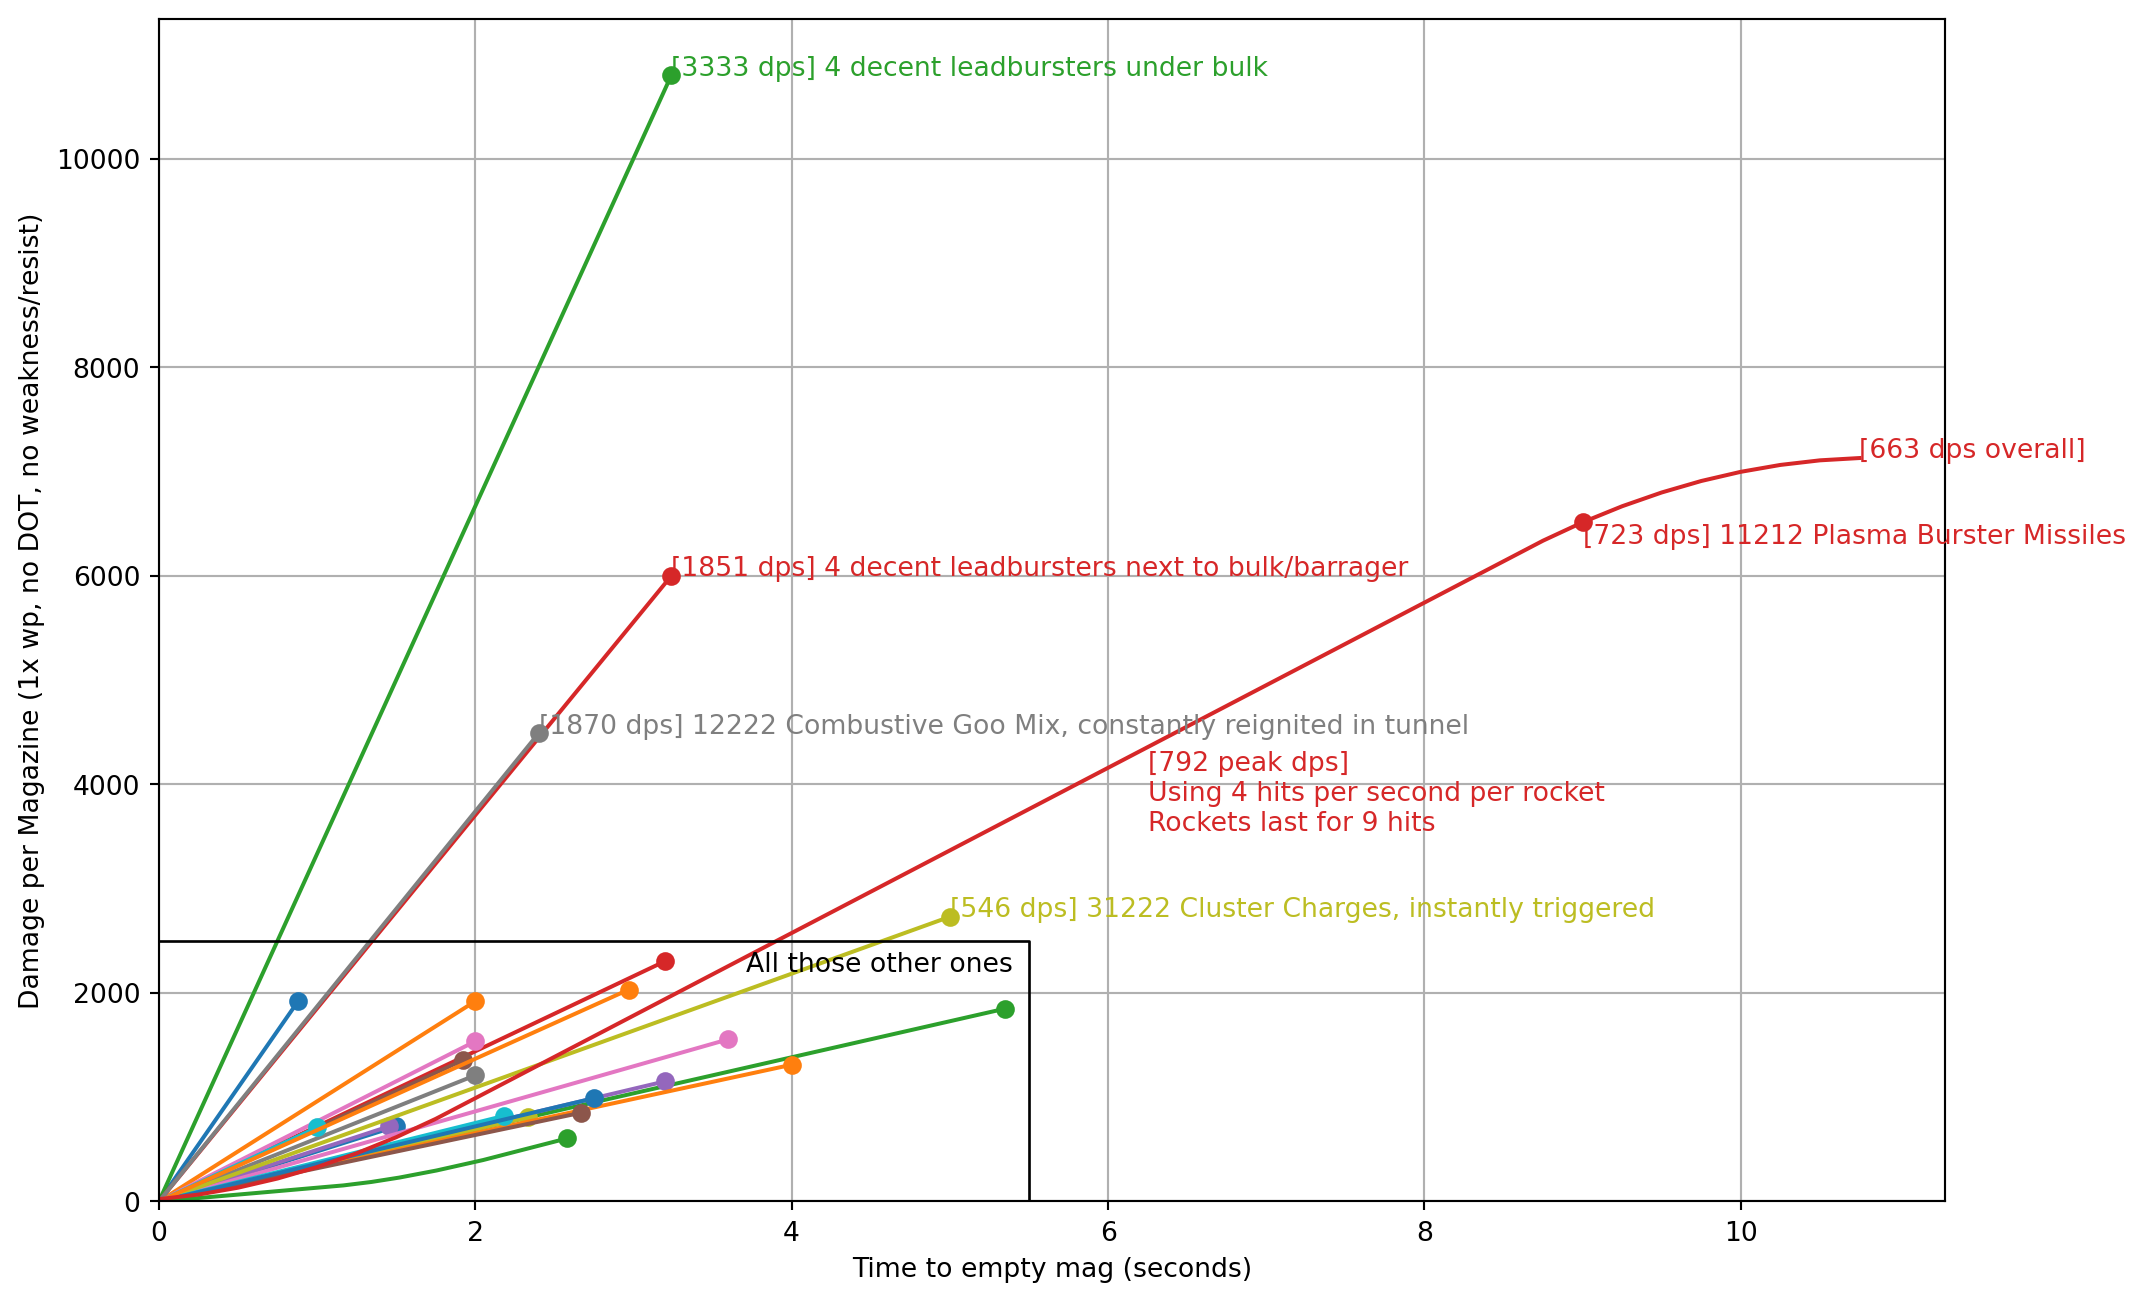
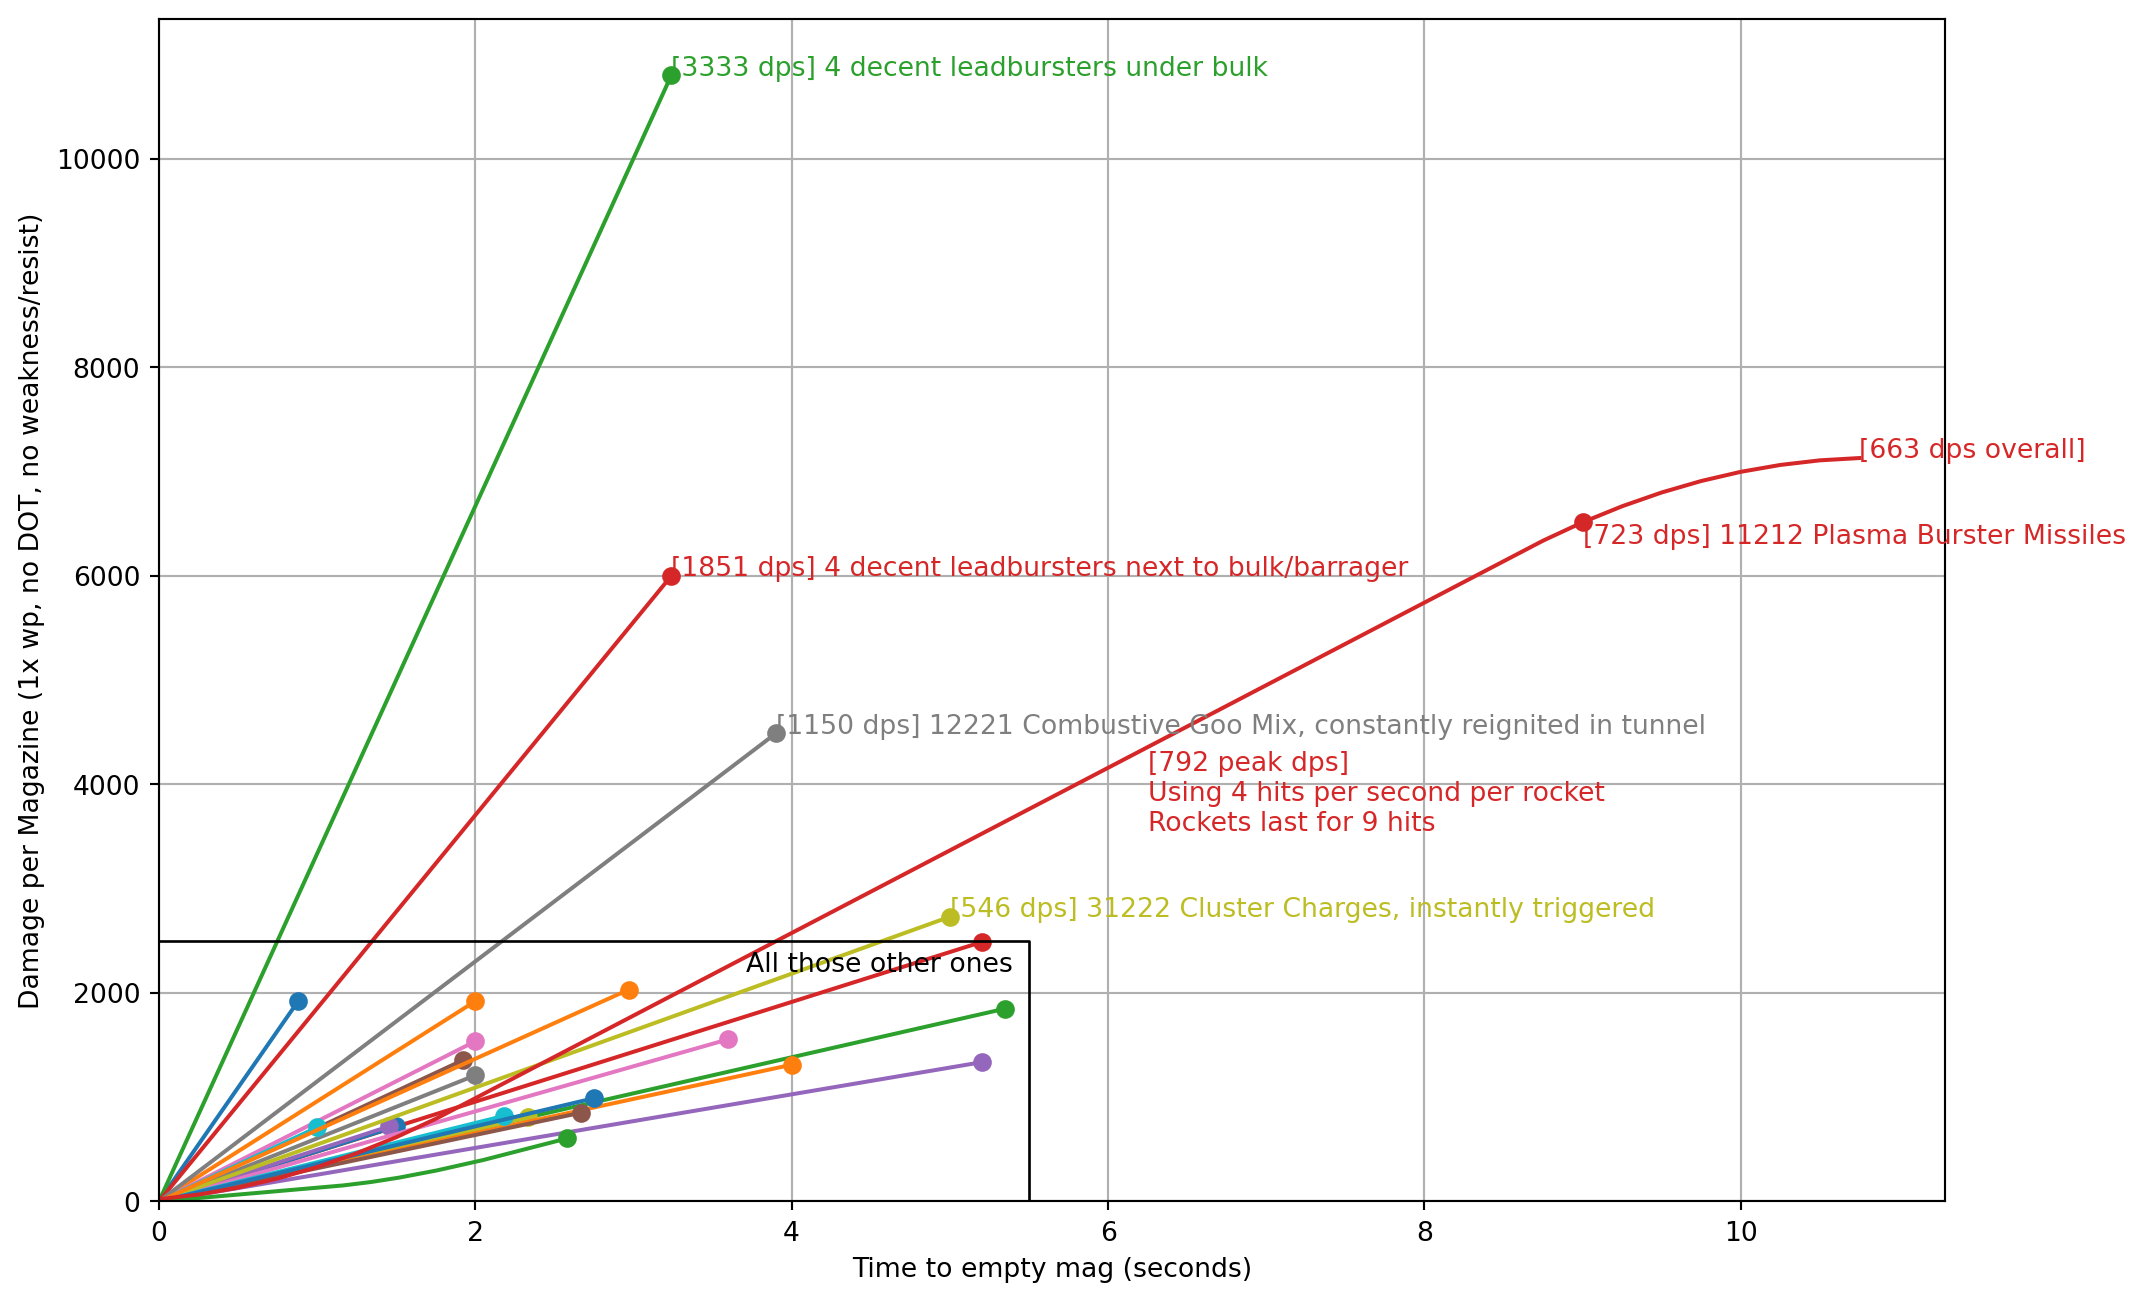
fixed sludge pump dps

diff --git a/burst_dps.md b/burst_dps.md
@@ -20,8 +20,9 @@ Winners:
 
 - Highest DPS under these rules is **4 leadbursters under a bulk**
 - Second highest is **axe cancel**
-- The simplest fast dread kill is probably **Sludge Blast** (no temperature/status/wp hit needed). Fastest with some (minimal) setup is probably conductive thermals + ice storm.
 - When considering weaknesses and status, the highest DPS is probably using VB to hit a weakpoint of something that has maximum multipliers (conductive thermals, MFD, IFG, critical weakness, etc). Though, most enemies would be oneshot so it maybe isn't finite DPS.
+
+An older version of these plots overestimated the DPS of the sludge pump because I neglected the 0.25s delay before you could start charging the next shot. This has been corrected and I have also updated the wiki.gg page to make it clearer. Alas, Sludge Blast is not as insane as we all thought.
 
 ![alt text](img/drg_burst_damage_detail.png)
 
